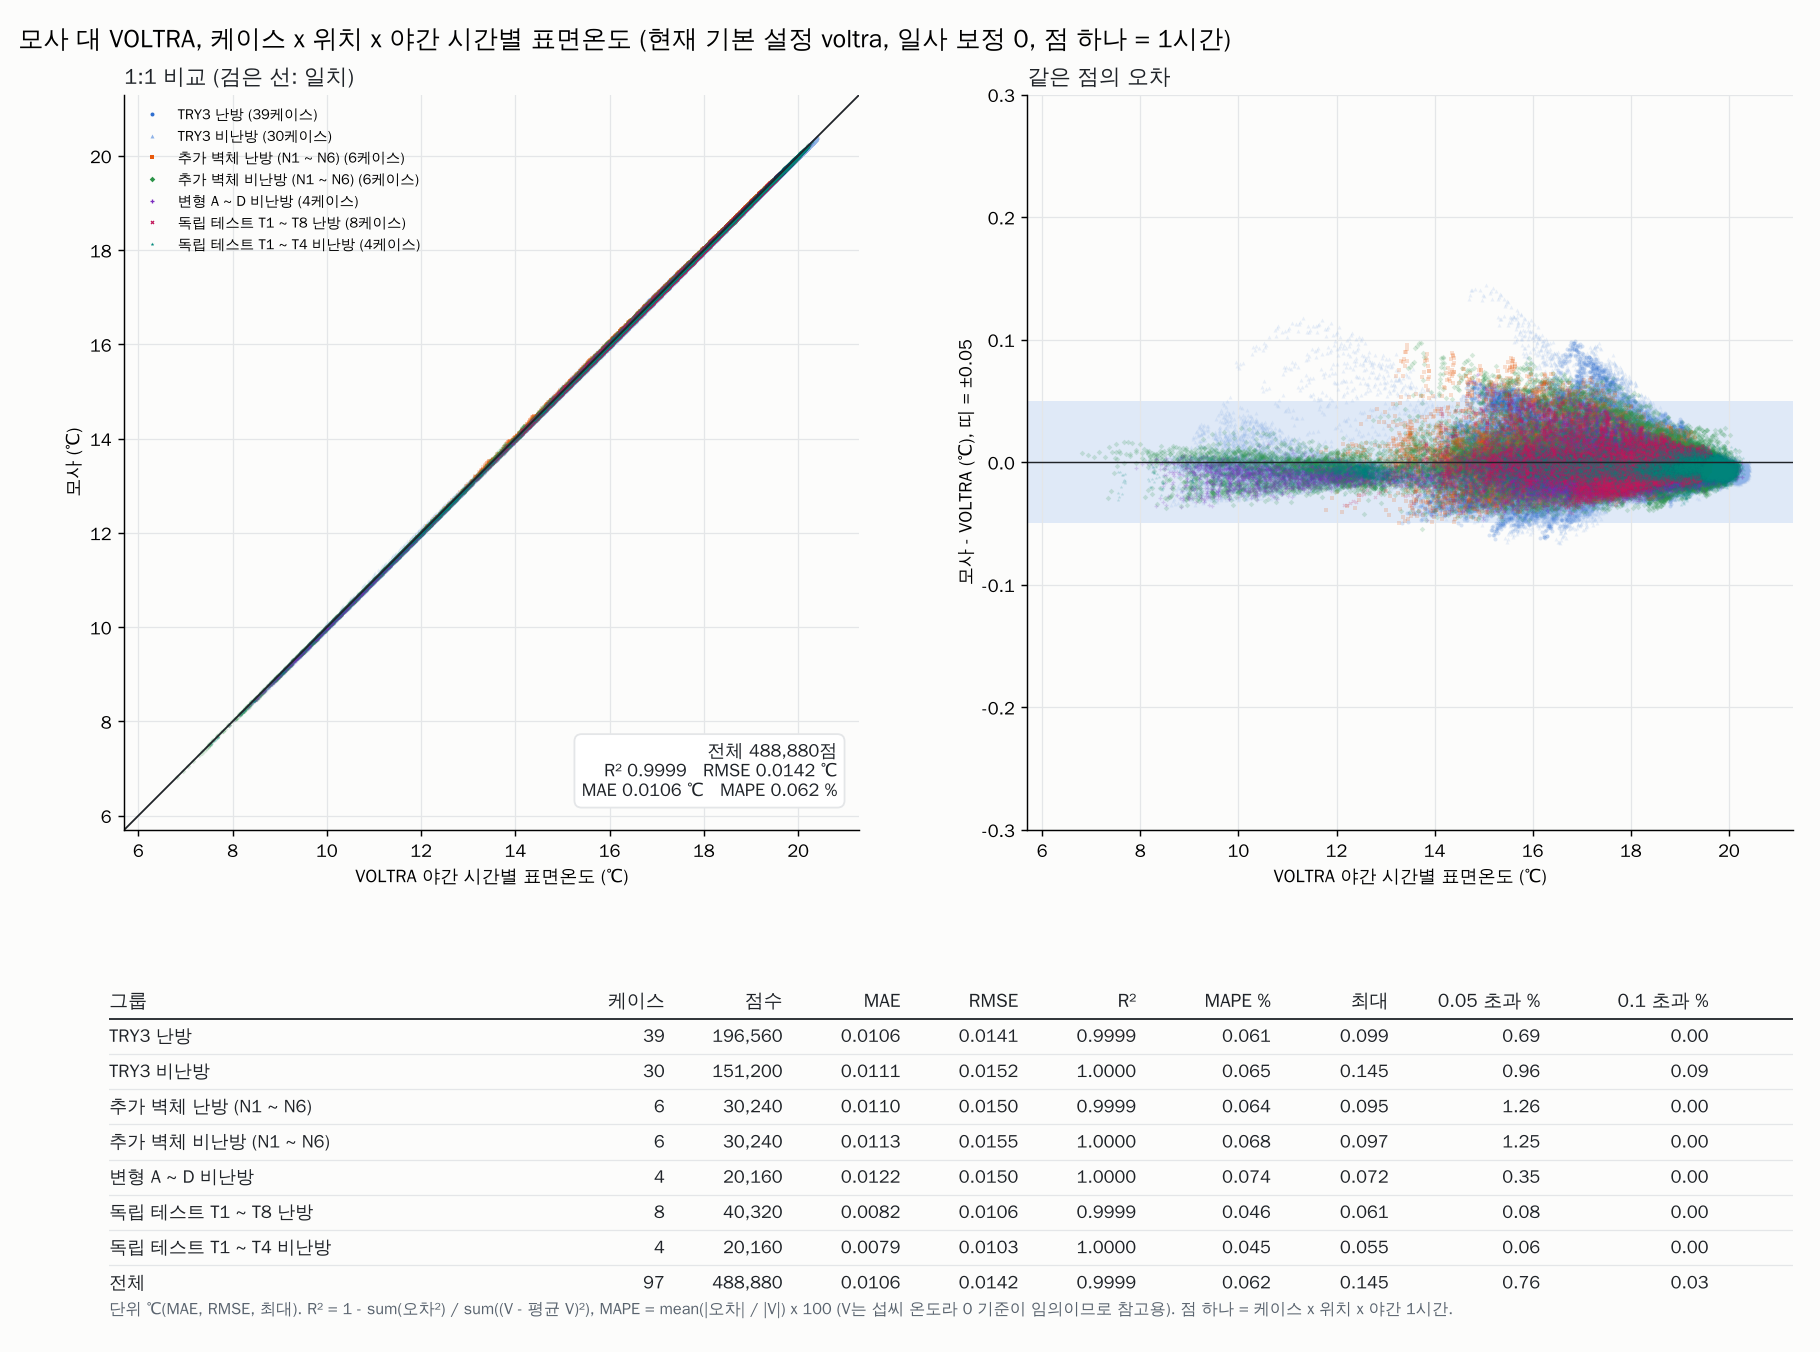
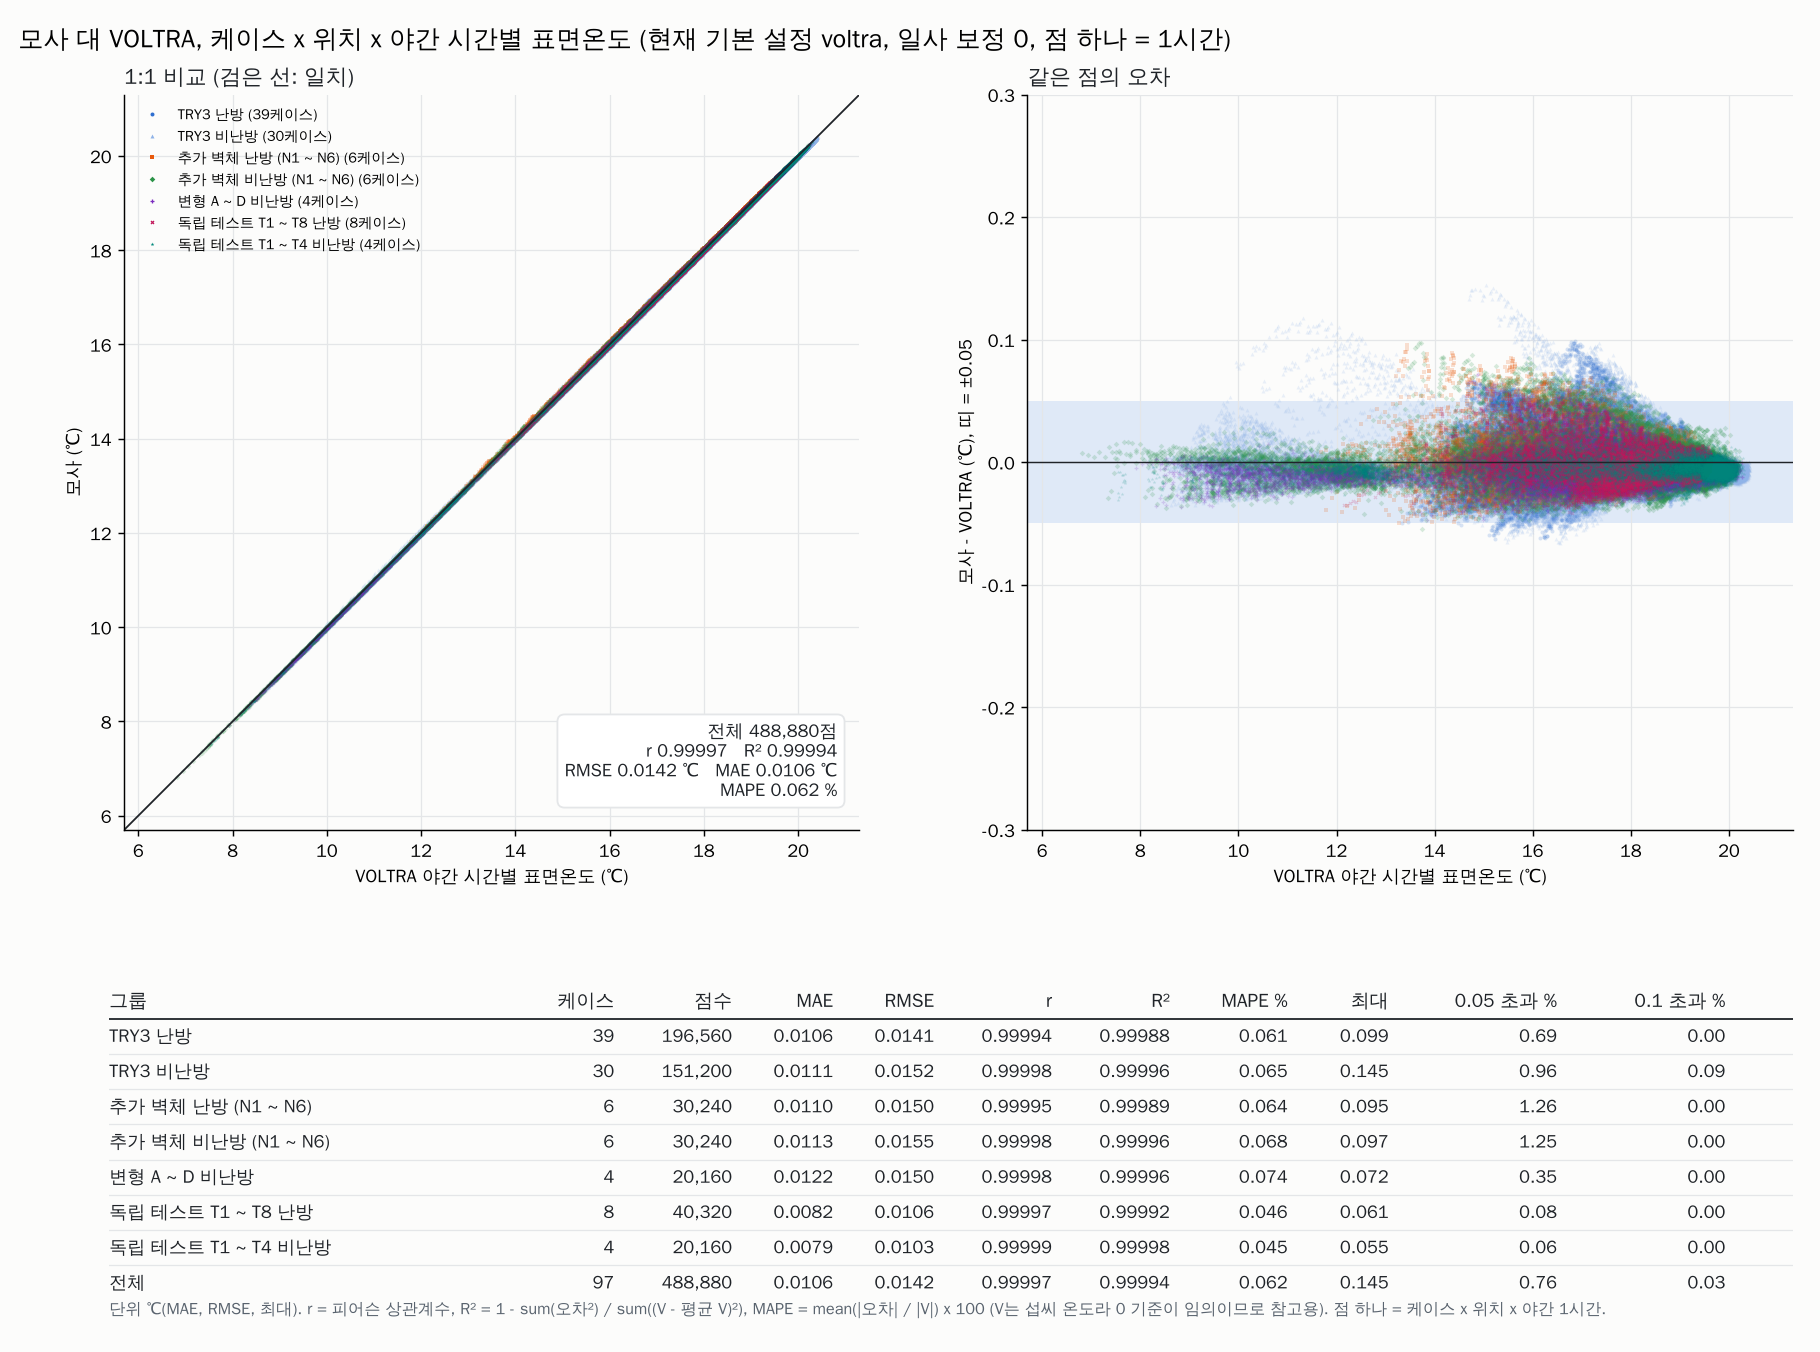
시간별 산점도에 피어슨 r 추가
Claude-Session: https://claude.ai/code/session_012nzsqrEyz8e8FDP6zFtUgj

diff --git a/examples/plot_scatter_hourly.py b/examples/plot_scatter_hourly.py
@@ -53,7 +53,7 @@ sty = {"TRY3 난방": ("o", "#2f6fd0", 4.5), "TRY3 비난방": ("^", "#8fb3e8", 
        "독립 테스트 T1 ~ T8 난방": ("X", "#c2185b", 5), "독립 테스트 T1 ~ T4 비난방": ("*", "#00897b", 6)}
 def metr(V, M):
     e = M - V
-    return dict(MAE=abs(e).mean(), RMSE=np.sqrt((e ** 2).mean()), R2=1 - (e ** 2).sum() / ((V - V.mean()) ** 2).sum(), MAPE=100 * (abs(e) / abs(V)).mean(), 최대=abs(e).max(), g05=100 * (abs(e) > 0.05).mean(), g10=100 * (abs(e) > 0.1).mean())
+    return dict(MAE=abs(e).mean(), RMSE=np.sqrt((e ** 2).mean()), r=np.corrcoef(V, M)[0, 1], R2=1 - (e ** 2).sum() / ((V - V.mean()) ** 2).sum(), MAPE=100 * (abs(e) / abs(V)).mean(), 최대=abs(e).max(), g05=100 * (abs(e) > 0.05).mean(), g10=100 * (abs(e) > 0.1).mean())
 fig = plt.figure(figsize=(14, 10.4), facecolor=SURF); gs = fig.add_gridspec(2, 2, height_ratios=[1.0, 0.46], hspace=0.28, left=0.06, right=0.985, top=0.93, bottom=0.025)
 axs = [fig.add_subplot(gs[0, 0]), fig.add_subplot(gs[0, 1])]; axT = fig.add_subplot(gs[1, :]); axT.axis("off"); rows = []
 allv = np.concatenate([np.concatenate([x.ravel() for x in v]) for v, _, _ in G.values()]); lim = np.array([np.floor(allv.min()) - 0.3, np.ceil(allv.max()) + 0.3])
@@ -67,7 +67,7 @@ tot = metr(np.concatenate(VA), np.concatenate(MA)); rows.append(dict(그룹="전
 axs[0].plot(lim, lim, "-", color=INK, lw=1); axs[0].set_xlim(lim); axs[0].set_ylim(lim); axs[0].set_aspect("equal")
 axs[0].set_xlabel("VOLTRA 야간 시간별 표면온도 (℃)"); axs[0].set_ylabel("모사 (℃)"); lg = axs[0].legend(frameon=False, loc="upper left", fontsize=8, markerscale=1)
 [h.set_alpha(1) for h in lg.legend_handles]
-axs[0].text(0.97, 0.04, f"전체 {rows[-1]['점수']:,}점\nR² {tot['R2']:.4f}   RMSE {tot['RMSE']:.4f} ℃\nMAE {tot['MAE']:.4f} ℃   MAPE {tot['MAPE']:.3f} %", transform=axs[0].transAxes, ha="right", va="bottom", fontsize=10, color=INK,
+axs[0].text(0.97, 0.04, f"전체 {rows[-1]['점수']:,}점\nr {tot['r']:.5f}   R² {tot['R2']:.5f}\nRMSE {tot['RMSE']:.4f} ℃   MAE {tot['MAE']:.4f} ℃\nMAPE {tot['MAPE']:.3f} %", transform=axs[0].transAxes, ha="right", va="bottom", fontsize=10, color=INK,
             bbox=dict(boxstyle="round,pad=0.4", fc="white", ec=GRID))
 axs[0].set_title("1:1 비교 (검은 선: 일치)", loc="left", fontsize=12, color=INK)
 axs[1].axhspan(-0.05, 0.05, color="#dfe9f7", lw=0, zorder=0); axs[1].axhline(0, color=INK, lw=0.8)
@@ -77,16 +77,16 @@ for ax in axs:
     ax.set_facecolor(SURF); ax.grid(color=GRID, lw=0.7); ax.set_axisbelow(True)
     for sp in ("top", "right"): ax.spines[sp].set_visible(False)
 # 아래 표: 그룹별 성능
-cols = [("그룹", 0.0, "left"), ("케이스", 0.33, "right"), ("점수", 0.40, "right"), ("MAE", 0.47, "right"), ("RMSE", 0.54, "right"), ("R²", 0.61, "right"), ("MAPE %", 0.69, "right"), ("최대", 0.76, "right"), ("0.05 초과 %", 0.85, "right"), ("0.1 초과 %", 0.95, "right")]
+cols = [("그룹", 0.0, "left"), ("케이스", 0.30, "right"), ("점수", 0.37, "right"), ("MAE", 0.43, "right"), ("RMSE", 0.49, "right"), ("r", 0.56, "right"), ("R²", 0.63, "right"), ("MAPE %", 0.70, "right"), ("최대", 0.76, "right"), ("0.05 초과 %", 0.86, "right"), ("0.1 초과 %", 0.96, "right")]
 axT.set_xlim(0, 1); axT.set_ylim(0, 1); nr = len(rows) + 1; dy = 1.0 / (nr + 0.6)
 for nme, x, ha in cols: axT.text(x if ha == "left" else x + 0.0, 1 - dy * 0.6, nme, ha=ha, va="center", fontsize=10.5, weight="bold", color=INK)
 axT.plot([0, 1], [1 - dy * 1.1] * 2, color=INK, lw=1)
 for k, r_ in enumerate(rows):
     y = 1 - dy * (k + 1.6); last = r_["그룹"] == "전체"
-    vals = [r_["그룹"], f"{r_['케이스수']}", f"{r_['점수']:,}", f"{r_['MAE']:.4f}", f"{r_['RMSE']:.4f}", f"{r_['R2']:.4f}", f"{r_['MAPE']:.3f}", f"{r_['최대']:.3f}", f"{r_['g05']:.2f}", f"{r_['g10']:.2f}"]
+    vals = [r_["그룹"], f"{r_['케이스수']}", f"{r_['점수']:,}", f"{r_['MAE']:.4f}", f"{r_['RMSE']:.4f}", f"{r_['r']:.5f}", f"{r_['R2']:.5f}", f"{r_['MAPE']:.3f}", f"{r_['최대']:.3f}", f"{r_['g05']:.2f}", f"{r_['g10']:.2f}"]
     for (nme, x, ha), t in zip(cols, vals): axT.text(x, y, t, ha=ha, va="center", fontsize=10, color=INK, weight="bold" if last else "normal")
     if k < len(rows) - 1: axT.plot([0, 1], [y - dy / 2] * 2, color=GRID, lw=0.7)
-axT.text(0, 0.0, "단위 ℃(MAE, RMSE, 최대). R² = 1 - sum(오차²) / sum((V - 평균 V)²), MAPE = mean(|오차| / |V|) x 100 (V는 섭씨 온도라 0 기준이 임의이므로 참고용). 점 하나 = 케이스 x 위치 x 야간 1시간.", fontsize=9, color=MUTED, va="bottom")
+axT.text(0, 0.0, "단위 ℃(MAE, RMSE, 최대). r = 피어슨 상관계수, R² = 1 - sum(오차²) / sum((V - 평균 V)²), MAPE = mean(|오차| / |V|) x 100 (V는 섭씨 온도라 0 기준이 임의이므로 참고용). 점 하나 = 케이스 x 위치 x 야간 1시간.", fontsize=9, color=MUTED, va="bottom")
 fig.suptitle("모사 대 VOLTRA, 케이스 x 위치 x 야간 시간별 표면온도 (현재 기본 설정 voltra, 일사 보정 0, 점 하나 = 1시간)", x=0.01, ha="left", fontsize=14)
 fig.savefig(R("results", "fig_scatter_hourly.png"), dpi=130, facecolor=SURF)
 pd.DataFrame(rows).round(4).to_csv(R("results", "accuracy", "scatter_hourly_summary.csv"), index=False, encoding="utf-8-sig")
